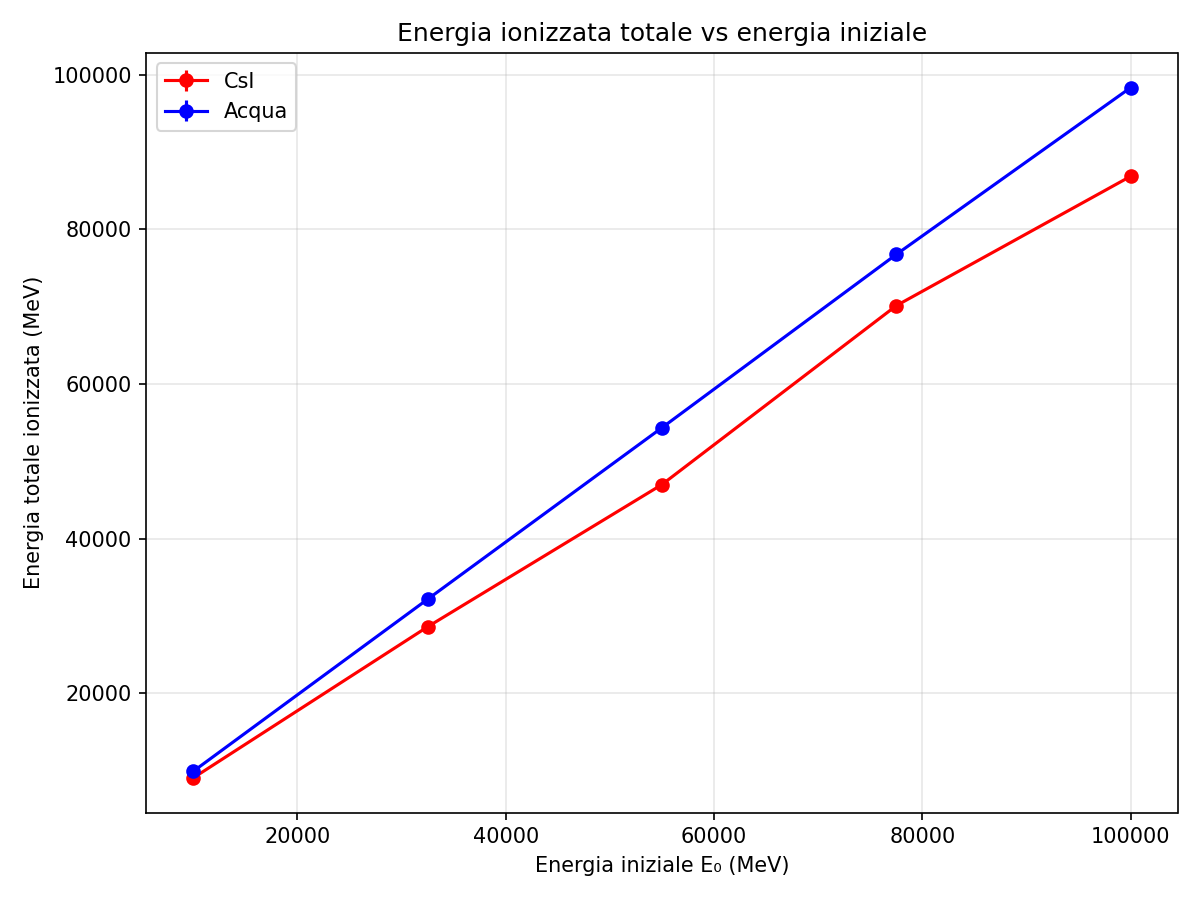
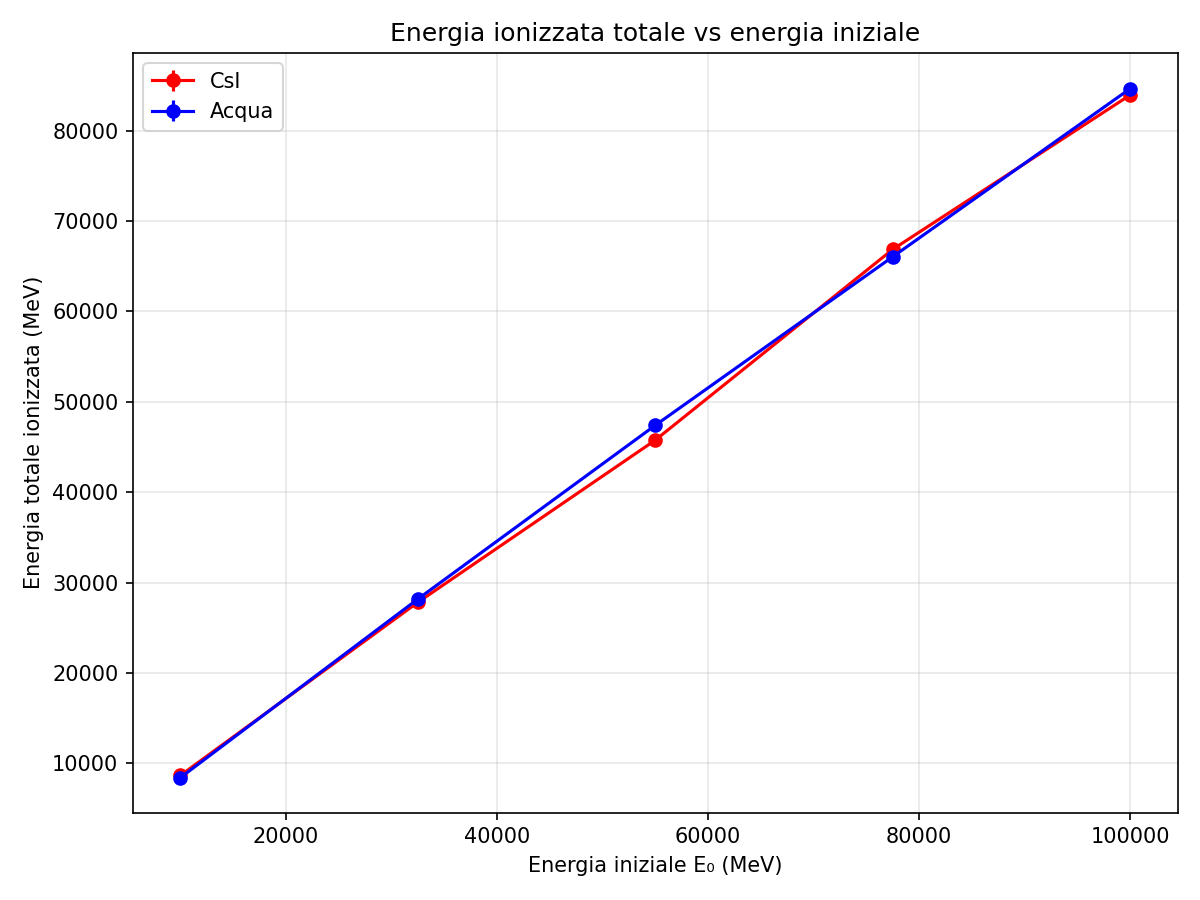
Corretti parametri acqua e CsI

diff --git a/main.py b/main.py
@@ -117,8 +117,8 @@ if __name__ == "__main__":
 
 	# Costanti
 
-	acqua=[78.33, 1.981, 'acqua liquida']
-	csi=[11.17,5.605, 'ioduro di cesio']
+	acqua=[78.33, 71.47, 'acqua liquida']
+	csi=[11.17,10.42, 'ioduro di cesio']
 	energie = np.linspace(10000, 100000, 5)
 	colors = ['r', 'g', 'b', 'orange', 'purple']
 
